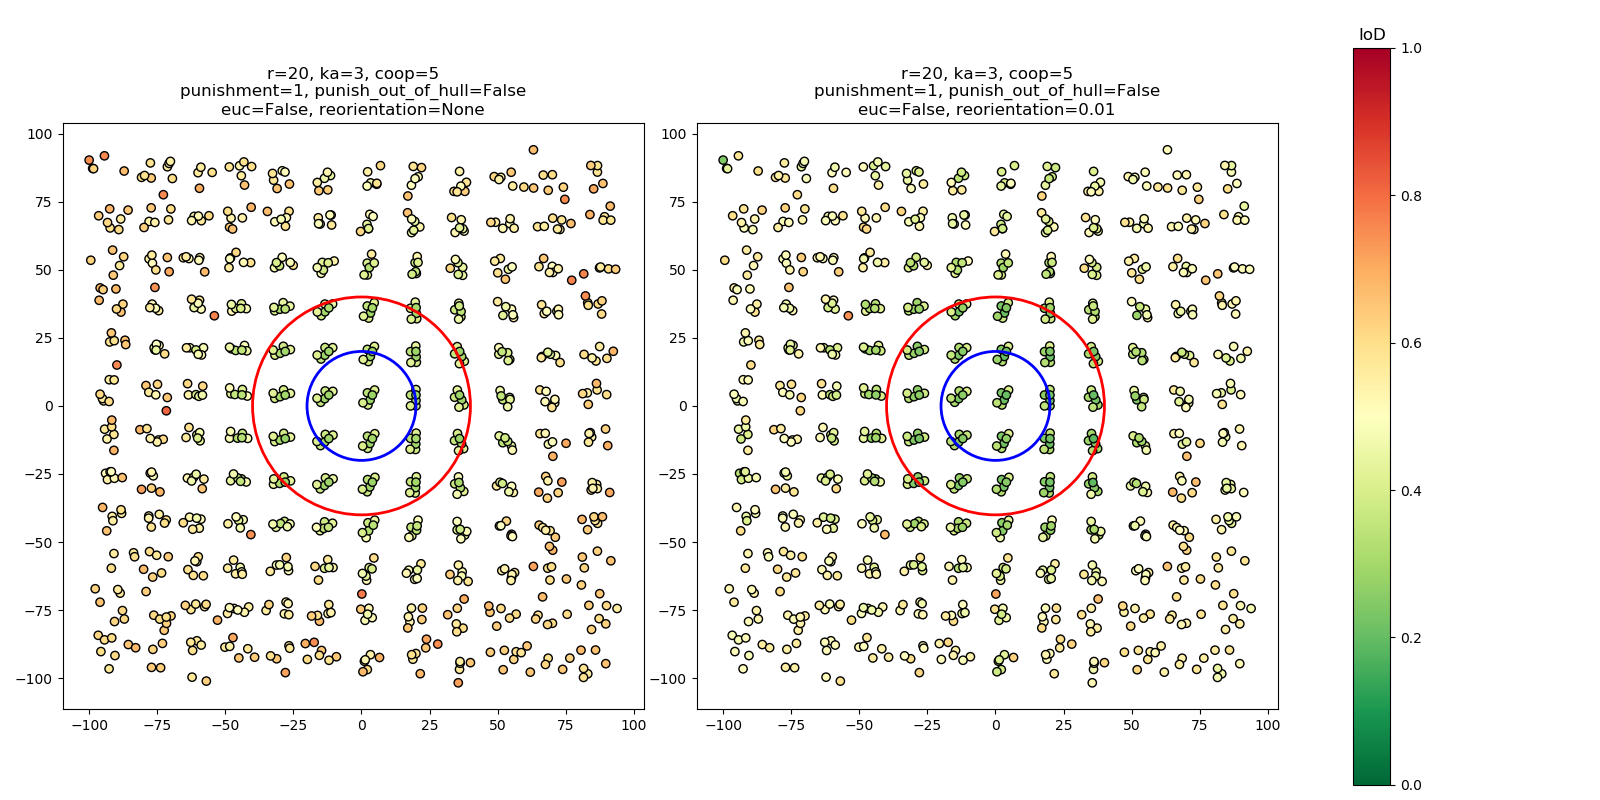
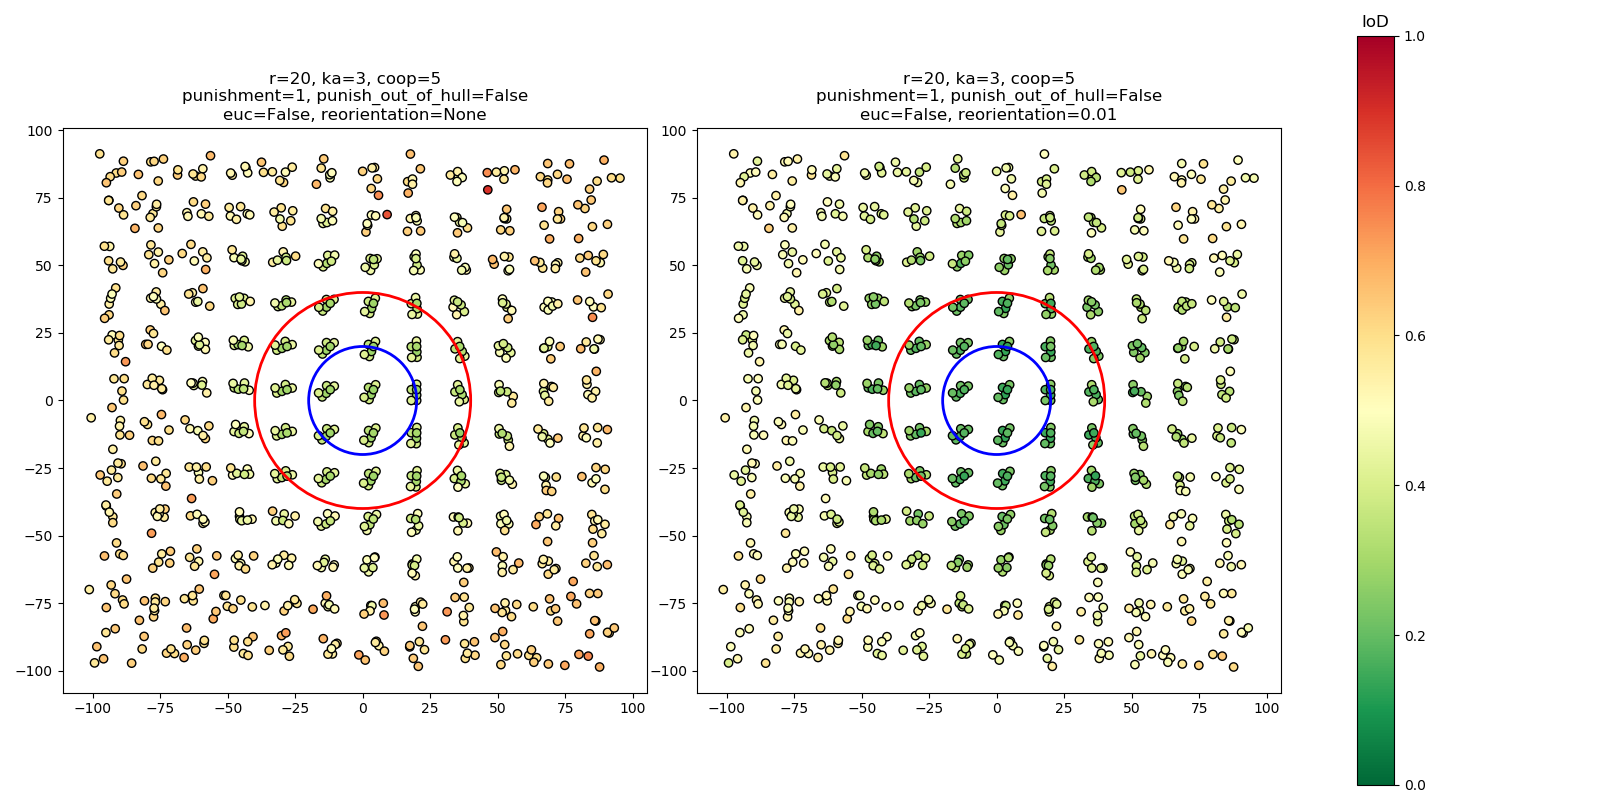
no message

diff --git a/figure_generation.py b/figure_generation.py
@@ -92,7 +92,7 @@ params.append({'neighbor_search_dist': 15,
                'punish_out_of_hull': False,
                'euc': False,
                'reorientation': 10e-3})
-"""
+
 working = concentric_circles(12, 0.5, 8)
 working = peturb_gradational(working, pet_gradient, pet_radius)
 grids.append(working)
@@ -164,6 +164,7 @@ params.append({'neighbor_search_dist': 15,
                'punish_out_of_hull': False,
                'euc': False,
                'reorientation': 10e-3})
+"""
 
 working = stamp_pattern(stamp, 8, 8, 100, 100, flip=False, rotate_by=2)
 working = peturb_gradational(working, pet_gradient, pet_radius)
@@ -174,9 +175,9 @@ params.append({'neighbor_search_dist': 20,
                'coop': 5,
                'punishment': 1,
                'punish_out_of_hull': False,
-               'euc': False,
+               'euc': True,
                'reorientation': 10e-3})
-
+"""
 working = stamp_pattern(stamp, 8, 8, 100, 100, flip=False, rotate_by=0)
 working = peturb_gradational(working, pet_gradient, pet_radius)
 grids.append(working)
@@ -188,6 +189,7 @@ params.append({'neighbor_search_dist': 20,
                'punish_out_of_hull': False,
                'euc': False,
                'reorientation': None})
+"""
 
 
 for pts, name, pars in zip(grids, names, params):
